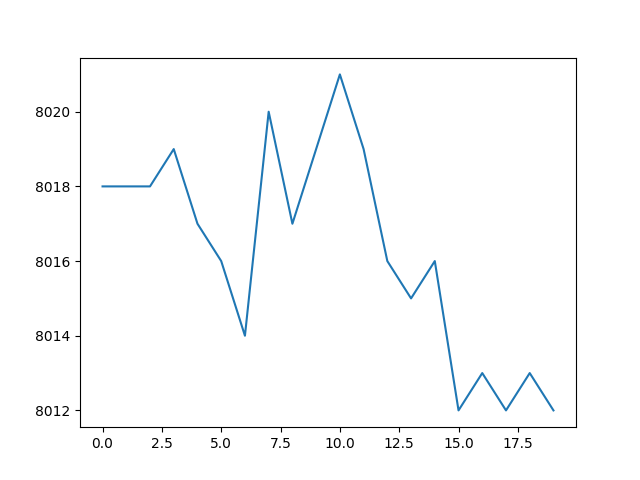
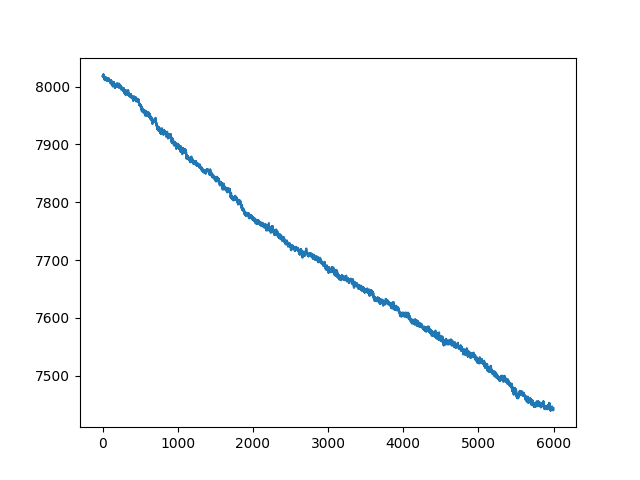
change momentum

diff --git a/attack_hash.py b/attack_hash.py
@@ -71,8 +71,8 @@ def momentum(losses, real_modifier, lr, grad, perturbation, batch_size, multi_im
     g /= multi_imgs_num * mc_sample
 
     # add momentum
-    # grad = 0.5 * grad + 0.5 * g 
-    grad = g
+    grad = 0.4 * grad + 0.6 * g 
+    # grad = g
 
     # normalization
     if np.sum(grad ** 2) != 0:
@@ -223,7 +223,7 @@ class hash_attack:
             self.solver = momentum
         self.momentum = 0.5
         self.perturbation_pixel = 0.004
-        self.perturbation_const = 5
+        self.perturbation_const = 10
         self.p = np.array([np.random.normal(loc = 0, scale = self.perturbation_pixel, size = self.resized_shape) for j in range(self.mc_sample // 2)])
 
         self.delta = 0.49999 / (mc_sample / 2)

diff --git a/command.py b/command.py
@@ -4,4 +4,4 @@ path = os.getcwd()
 os.system('cd {}'.format(os.getcwd()))
 
 
-os.system('python main.py -i 15 -n 4 -mu 1 -mc 64 --targeted -hash photoDNA -dist l2dist --optimizer momentum --use_grayscale --batch 1 -lr 0.5 -mi 16000')
+os.system('python main.py -i 15 -n 4 -mu 1 -mc 32 --targeted -hash photoDNA -dist l2dist --optimizer momentum --use_grayscale --batch 1 -lr 4 -mi 6000')
